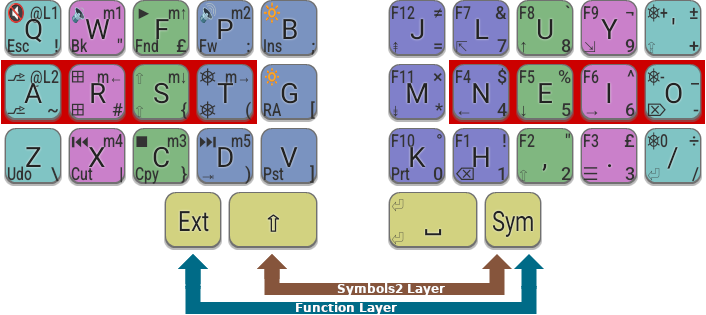
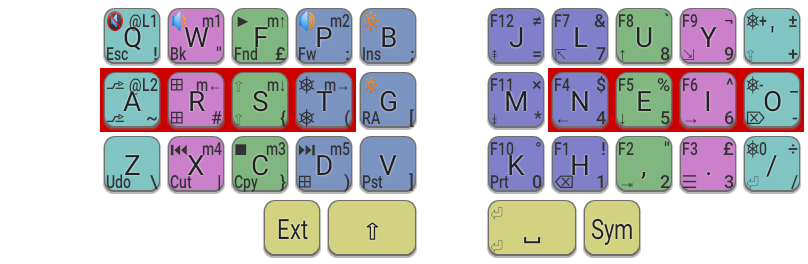
Move TAB to right-hand side on Extend layer, Ext-D to be standalone Super key

diff --git a/docs/index.html b/docs/index.html
@@ -96,12 +96,14 @@ function closeModalImage() {
 
 
 <figure id="seniply_us_matrix_all">
-  <img onclick="showModalImage(this)" src="gfx/seniply_us_matrix_all.png" alt="Colemak-DH Seniply (US) for a small matrix keyboard"/>
+  <img onclick="showModalImage(this)" style="padding-bottom: 0" src="gfx/seniply_us_matrix_all.png" alt="Colemak-DH Seniply (US) for a small matrix keyboard"/>
+  <img src="gfx/layer_selection.png" style="padding-top: 0"/>
   <figcaption>Colemak-DH Seniply for a matrix-like keyboard with 34 keys assuming underlying US keyboard mapping.</figcaption>
 </figure>
 
 <figure id="seniply_uk_matrix_all">
-  <img onclick="showModalImage(this)" src="gfx/seniply_uk_matrix_all.png" alt="Colemak-DH Seniply (UK) for a small matrix keyboard"/>
+  <img onclick="showModalImage(this)" style="padding-bottom: 0" src="gfx/seniply_uk_matrix_all.png" alt="Colemak-DH Seniply (UK) for a small matrix keyboard"/>
+  <img src="gfx/layer_selection.png" style="padding-top: 0"/>  
   <figcaption>Colemak-DH Seniply for a matrix-like keyboard with 34 keys assuming underlying UK keyboard mapping.</figcaption>
 </figure>
 
@@ -159,12 +161,12 @@ function closeModalImage() {
 
 <p>Navigation and other non-printable functions are provided by the Extend layer, which is heavily based on <a href="https://dreymar.colemak.org/layers-extend.html">DreymaR's original</a>. The Extend layer is selected via the left-most thumb key. This layer provides navigation, page up/down, home/end on the right-hand side. Backspace <code>⌫</code> is assigned to a comfortable spot on a strong index finger (Ext-H), with Delete <code>⌦</code> also well positioned on the home-row (Ext-O).</p>
 
-<p>On the left-hand side are home-row modifiers for Alt, Super, Shift, Control and AltGr on A,R,S,T,G respectively. As with DreymaR's Extend, these modifiers can be held down and combined with other Extend functions such as arrows etc, to comfortably produce combinations like <code>Ctrl&nbsp;⌫</code>, <code>Alt&nbsp;←</code>. Importantly though, these home-row modifiers are also implemented as one-shot (sticky) keys, which makes it easy to do Control and Alt shortcuts without needing dedicated modifier keys. Commonly used operations like Cut, Copy, Paste and Undo have dedicated shortcuts in this layer too.</p>
+<p>On the left-hand side are home-row modifiers for Alt, Super, Shift, Control and AltGr on A,R,S,T,G respectively. As with DreymaR's Extend, these modifiers can be held down and combined with other Extend functions such as arrows etc, to comfortably produce combinations like <code>Ctrl&nbsp;⌫</code>, <code>Alt&nbsp;←</code>. Importantly though, these home-row modifiers are also implemented as one-shot (sticky) keys, which makes it easy to do Control and Alt shortcuts without needing dedicated modifier keys. An additional non-sticky Super key is provided on Ext-D as some desktop environments require this key to be tapped on its own. Commonly used operations like Cut, Copy, Paste and Undo have dedicated shortcuts in this layer too.</p>
 
 <p>Examples:<br/>
 (i) Output Ctrl-A using <code>Ext-t&nbsp;a</code><br/>
 (ii) Output Ctrl-W using <code>Ext-t&nbsp;w</code><br/>
-(iii) Output Alt-Tab using <code>Ext-a-d</code></p>
+(iii) Output Alt-Tab using <code>Ext-a-,</code></p>
 
 <h4>Function Layer</h4>
 
